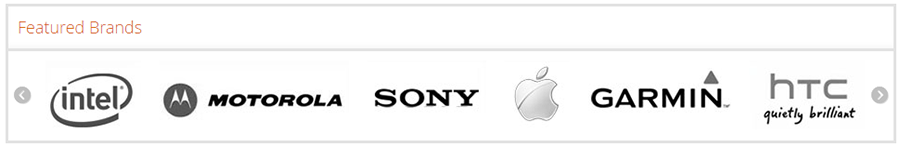
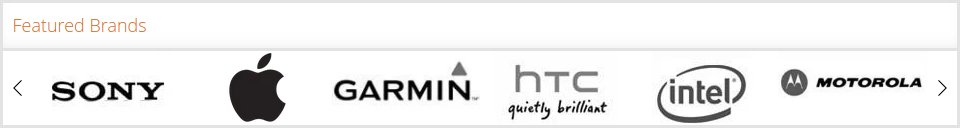
Argento M2 Essence - update homepage docs according latest version.

Changed region(s): [[0.0, 0.0, 1.0, 1.0], [0.84, 0.7188, 0.9644, 0.8438]]

diff --git a/m2/argento/essence/page-structure/homepage.md b/m2/argento/essence/page-structure/homepage.md
@@ -122,22 +122,26 @@ with [ArgentoTabs script](/m2/argento/scripts/argento-tabs/).
 Code:
 
 ```html
+{% raw %}{{block class="Magento\Cms\Block\Block" block_id="brands_slider"}}{% endraw %}
+```
+
+As you can see we moved all content of brand slider element to separate CMS block with id `brands_slider`.
+
+Brands Slider - is a static slider powered by widget of
+[EasySlide module](/m2/extensions/easyslider/). Slides ID is `argento_essence_brands`. Find it at EasySlide grid in Magento Admin.
+
+Content of `brands_slider` is below:
+
+```html
 <div class="block row widget block-promo block-carousel">
     <div class="block-title">
         <strong>Featured Brands</strong>
     </div>
     <div class="block-content">
-        <div class="slick-slider" data-mage-init='{"slick": {"slidesToShow": 6, "slidesToScroll": 1, "dots": false, "autoplay": true, "variableWidth": true, "swipeToSlide": true}}'>
-            <div><a href="#"><img src="{% raw %}{{view url='images/brands/sony.jpg'}}{% endraw %}" alt="" width="128" height="73"/></a></div>
-            <div><a href="#"><img src="{% raw %}{{view url='images/brands/apple.jpg'}}{% endraw %}" alt="" width="70" height="73"/></a></div>
-            ...
-        </div>
+        {% raw %}{{widget type="Swissup\EasySlide\Block\Slider" identifier="argento_essence_brands"}}{% endraw %}
     </div>
 </div>
 ```
-
-Brands Slider - is a static slider powered by
-[SlickCarousel module](/m2/extensions/slick-carousel/).
 
 #### Whole homepage code
 
@@ -160,7 +164,7 @@ In case if you’ve lost original homepage content, you can get it below:
 <div class="argento-grid row block-products-promo">
     <div class="blocks-main item col-md-8 argento-tabs" data-mage-init='{"argentoTabs": {}}'>
         {{widget type="Swissup\Highlight\Block\ProductList\NewList" title="New Products" products_count="6" column_count="3" order="default" dir="desc" template="Swissup_Highlight::product/list.phtml" mode="grid" show_page_link="1" page_link_title="View All New Products"}}
-        {{widget type="Swissup\Highlight\Block\ProductList\Onsale" title="Special Offers" products_count="6" column_count="3" order="default" dir="desc" template="Swissup_Highlight::product/list.phtml" mode="grid"}}
+        {{widget type="Swissup\Highlight\Block\ProductList\Onsale" title="Special Offers" products_count="6" column_count="3" order="default" dir="desc" template="Swissup_Highlight::product/list.phtml" mode="grid" show_page_link="1" page_link_title="View All On Sale Products"}}
         {{widget type="Swissup\Highlight\Block\ProductList\Attribute\Yesno" title="Coming soon" attribute_code="coming_soon" products_count="6" column_count="3" order="default" dir="asc" template="Swissup_Highlight::product/list.phtml" mode="grid"}}
     </div>
     <div class="sidebar blocks-secondary col-md-4">
@@ -172,27 +176,7 @@ In case if you’ve lost original homepage content, you can get it below:
     </div>
 </div>
 
-<div class="block row widget block-promo block-carousel">
-    <div class="block-title">
-        <strong>Featured Brands</strong>
-    </div>
-    <div class="block-content">
-        <div class="slick-slider" data-mage-init='{"slick": {"slidesToShow": 6, "slidesToScroll": 1, "dots": false, "autoplay": true, "variableWidth": true, "swipeToSlide": true}}'>
-            <div><a href="#"><img src="{{view url='images/brands/sony.jpg'}}" alt="" width="128" height="73"/></a></div>
-            <div><a href="#"><img src="{{view url='images/brands/apple.jpg'}}" alt="" width="70" height="73"/></a></div>
-            <div><a href="#"><img src="{{view url='images/brands/garmin.jpg'}}" alt="" width="154" height="74"/></a></div>
-            <div><a href="#"><img src="{{view url='images/brands/htc.jpg'}}" alt="" width="124" height="74"/></a></div>
-            <div><a href="#"><img src="{{view url='images/brands/intel.jpg'}}" alt="" width="103" height="74"/></a></div>
-            <div><a href="#"><img src="{{view url='images/brands/motorola.jpg'}}" alt="" width="204" height="76"/></a></div>
-            <div><a href="#"><img src="{{view url='images/brands/sony.jpg'}}" alt="" width="128" height="73"/></a></div>
-            <div><a href="#"><img src="{{view url='images/brands/apple.jpg'}}" alt="" width="70" height="73"/></a></div>
-            <div><a href="#"><img src="{{view url='images/brands/garmin.jpg'}}" alt="" width="154" height="74"/></a></div>
-            <div><a href="#"><img src="{{view url='images/brands/htc.jpg'}}" alt="" width="124" height="74"/></a></div>
-            <div><a href="#"><img src="{{view url='images/brands/intel.jpg'}}" alt="" width="103" height="74"/></a></div>
-            <div><a href="#"><img src="{{view url='images/brands/motorola.jpg'}}" alt="" width="204" height="76"/></a></div>
-        </div>
-    </div>
-</div>{% endraw %}
+{{block class="Magento\Cms\Block\Block" block_id="brands_slider"}}{% endraw %}
 ```
 
 
